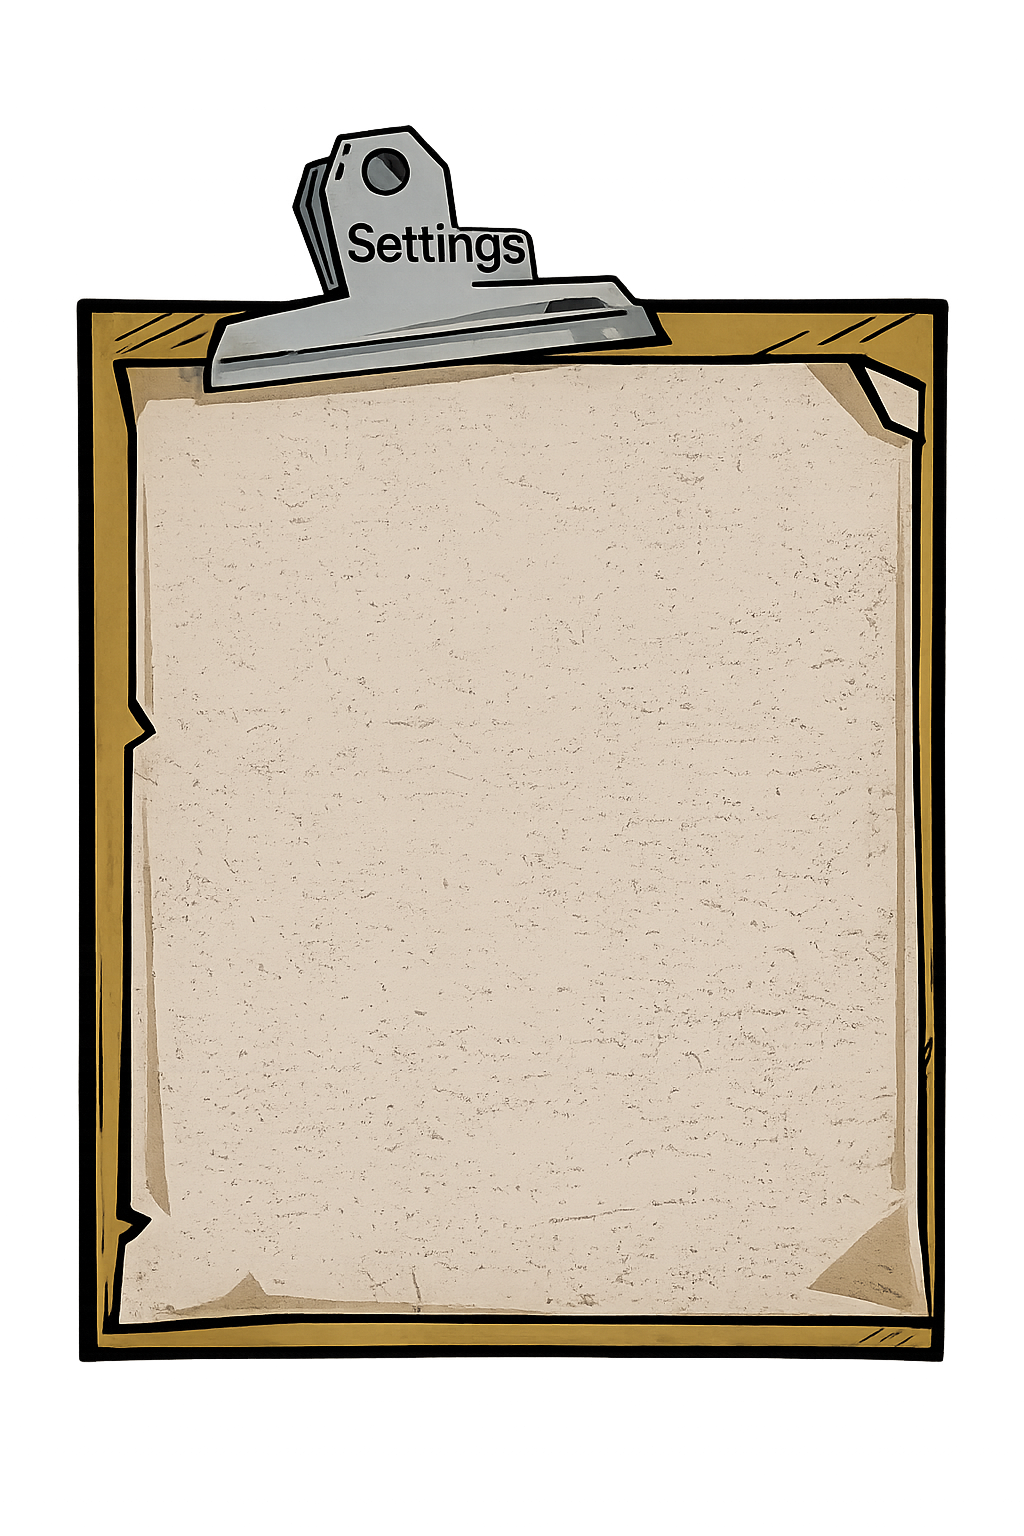
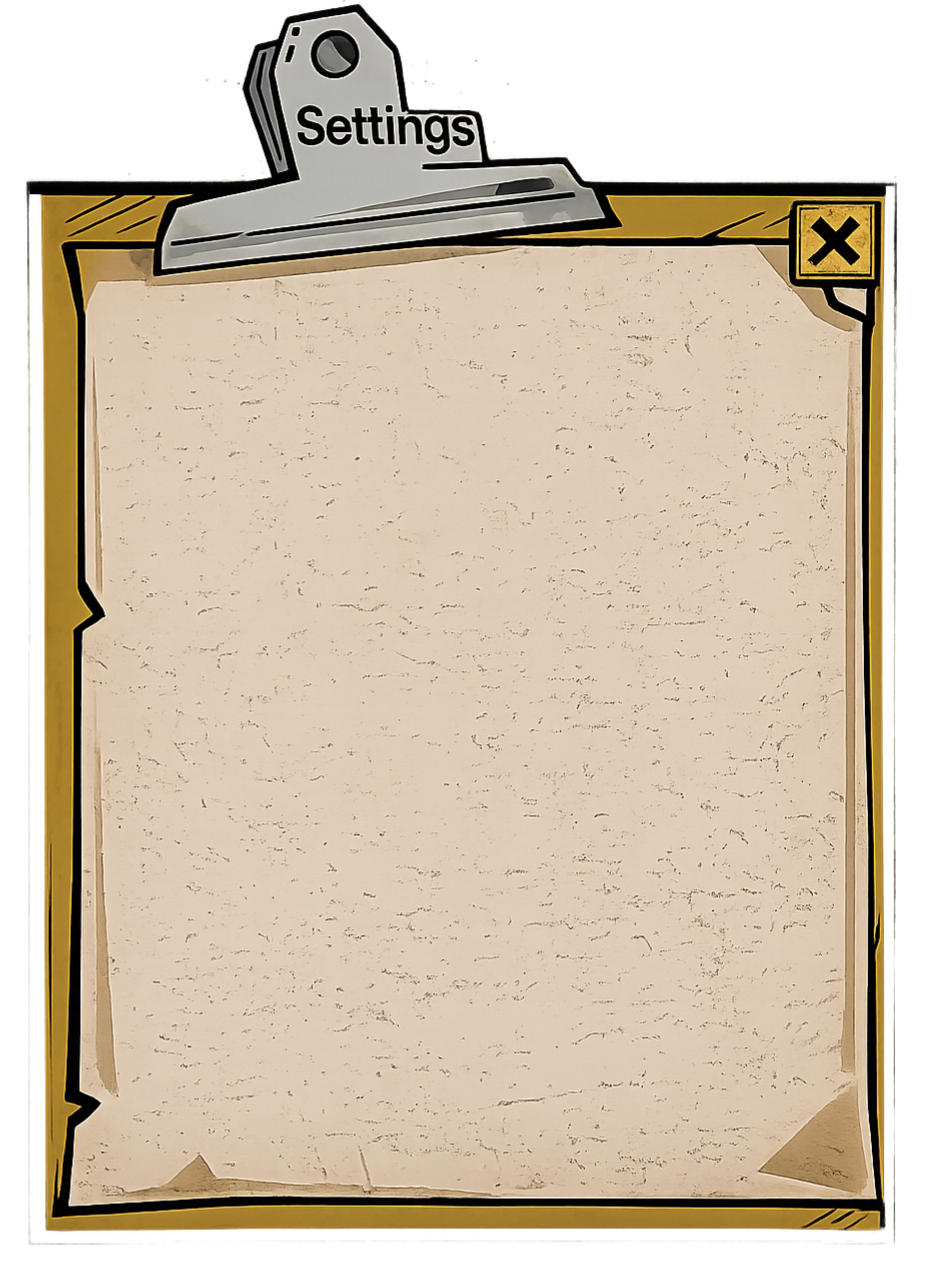
feat: replace settings close button with image hotspot

diff --git a/assets/scripts/ui/SettingsPanelController.ts b/assets/scripts/ui/SettingsPanelController.ts
@@ -123,6 +123,7 @@ export class SettingsPanelController extends Component {
 
     this.settingsPanel = this.settingsOverlay.getChildByName(SETTINGS_PANEL_NAME);
     this.returnHomeButton = this.settingsPanel?.getChildByName('ReturnHomeButton') ?? null;
+    this.sanitizeCloseButtonHotspot();
 
     this.settingsButtonComp = this.settingsButton.getComponent(Button);
     this.closeButtonComp = this.settingsPanel?.getChildByName('CloseButton')?.getComponent(Button) ?? null;
@@ -218,45 +219,43 @@ export class SettingsPanelController extends Component {
   }
 
   private createCloseButton(panel: Node): void {
+    // Transparent hotspot over the X baked into the panel background art.
     const closeButton = new Node('CloseButton');
     panel.addChild(closeButton);
     closeButton.layer = panel.layer;
-    closeButton.addComponent(UITransform).setContentSize(64, 64);
-
-    const visual = new Node('CloseVisual');
-    closeButton.addChild(visual);
-    visual.layer = panel.layer;
-    visual.addComponent(UITransform).setContentSize(64, 64);
-    const graphics = visual.addComponent(Graphics);
-    graphics.clear();
-    graphics.fillColor = new Color(25, 23, 20, 220);
-    graphics.rect(-32, -32, 64, 64);
-    graphics.fill();
-    graphics.lineWidth = 3;
-    graphics.strokeColor = new Color(230, 220, 195, 255);
-    graphics.rect(-32, -32, 64, 64);
-    graphics.stroke();
-
-    const labelNode = new Node('CloseLabel');
-    closeButton.addChild(labelNode);
-    labelNode.layer = panel.layer;
-    labelNode.addComponent(UITransform).setContentSize(56, 56);
-    const label = labelNode.addComponent(Label);
-    label.string = '×';
-    label.fontSize = 42;
-    label.lineHeight = 48;
-    label.horizontalAlign = Label.HorizontalAlign.CENTER;
-    label.verticalAlign = Label.VerticalAlign.CENTER;
-    label.color = new Color(230, 220, 195, 255);
-    label.useSystemFont = true;
-    label.fontFamily = 'Arial';
-    label.overflow = Label.Overflow.CLAMP;
+    closeButton.addComponent(UITransform).setContentSize(72, 72);
 
     const button = closeButton.addComponent(Button);
-    button.transition = Button.Transition.SCALE;
-    button.zoomScale = 0.94;
-    button.duration = 0.08;
+    button.transition = Button.Transition.NONE;
     button.target = closeButton;
+  }
+
+  /** Strip any leftover CloseButton visuals so only the bg X is shown. */
+  private sanitizeCloseButtonHotspot(): void {
+    const closeButton = this.settingsPanel?.getChildByName('CloseButton');
+    if (!closeButton?.isValid) {
+      return;
+    }
+
+    const visual = closeButton.getChildByName('CloseVisual');
+    if (visual?.isValid) {
+      visual.destroy();
+    }
+    const label = closeButton.getChildByName('CloseLabel');
+    if (label?.isValid) {
+      label.destroy();
+    }
+
+    const transform = closeButton.getComponent(UITransform);
+    if (transform) {
+      transform.setContentSize(72, 72);
+    }
+
+    const button = closeButton.getComponent(Button);
+    if (button) {
+      button.transition = Button.Transition.NONE;
+      button.target = closeButton;
+    }
   }
 
   private createMenuRow(panel: Node, name: string, text: string): void {
@@ -352,9 +351,10 @@ export class SettingsPanelController extends Component {
     const paperBottom = -panelHeight * 0.34;
     const paperCenterY = (paperTop + paperBottom) * 0.5;
 
+    // Align transparent hotspot with the X on the clipboard frame (top-right).
     const closeButton = this.settingsPanel.getChildByName('CloseButton');
     if (closeButton) {
-      closeButton.setPosition(panelWidth * 0.28, paperTop - 8, 0);
+      closeButton.setPosition(panelWidth * 0.404, panelHeight * 0.309, 0);
     }
 
     const rowNames = ['SoundRow', 'MusicRow', 'VoiceRow'];
